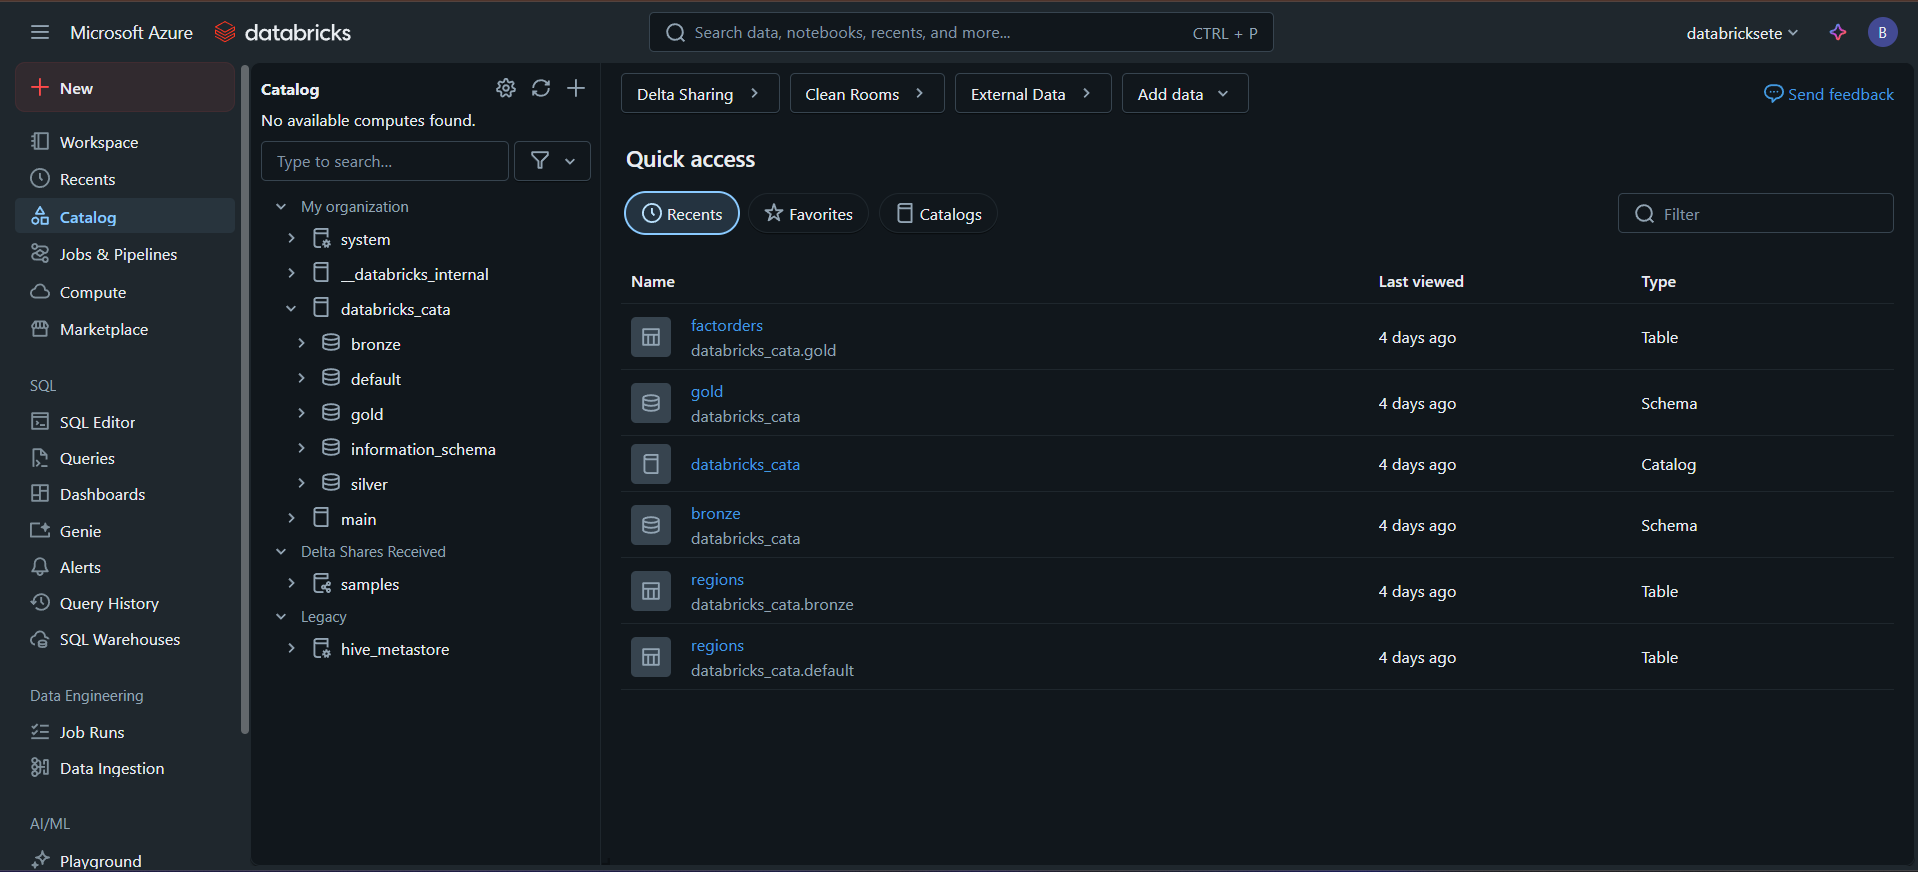
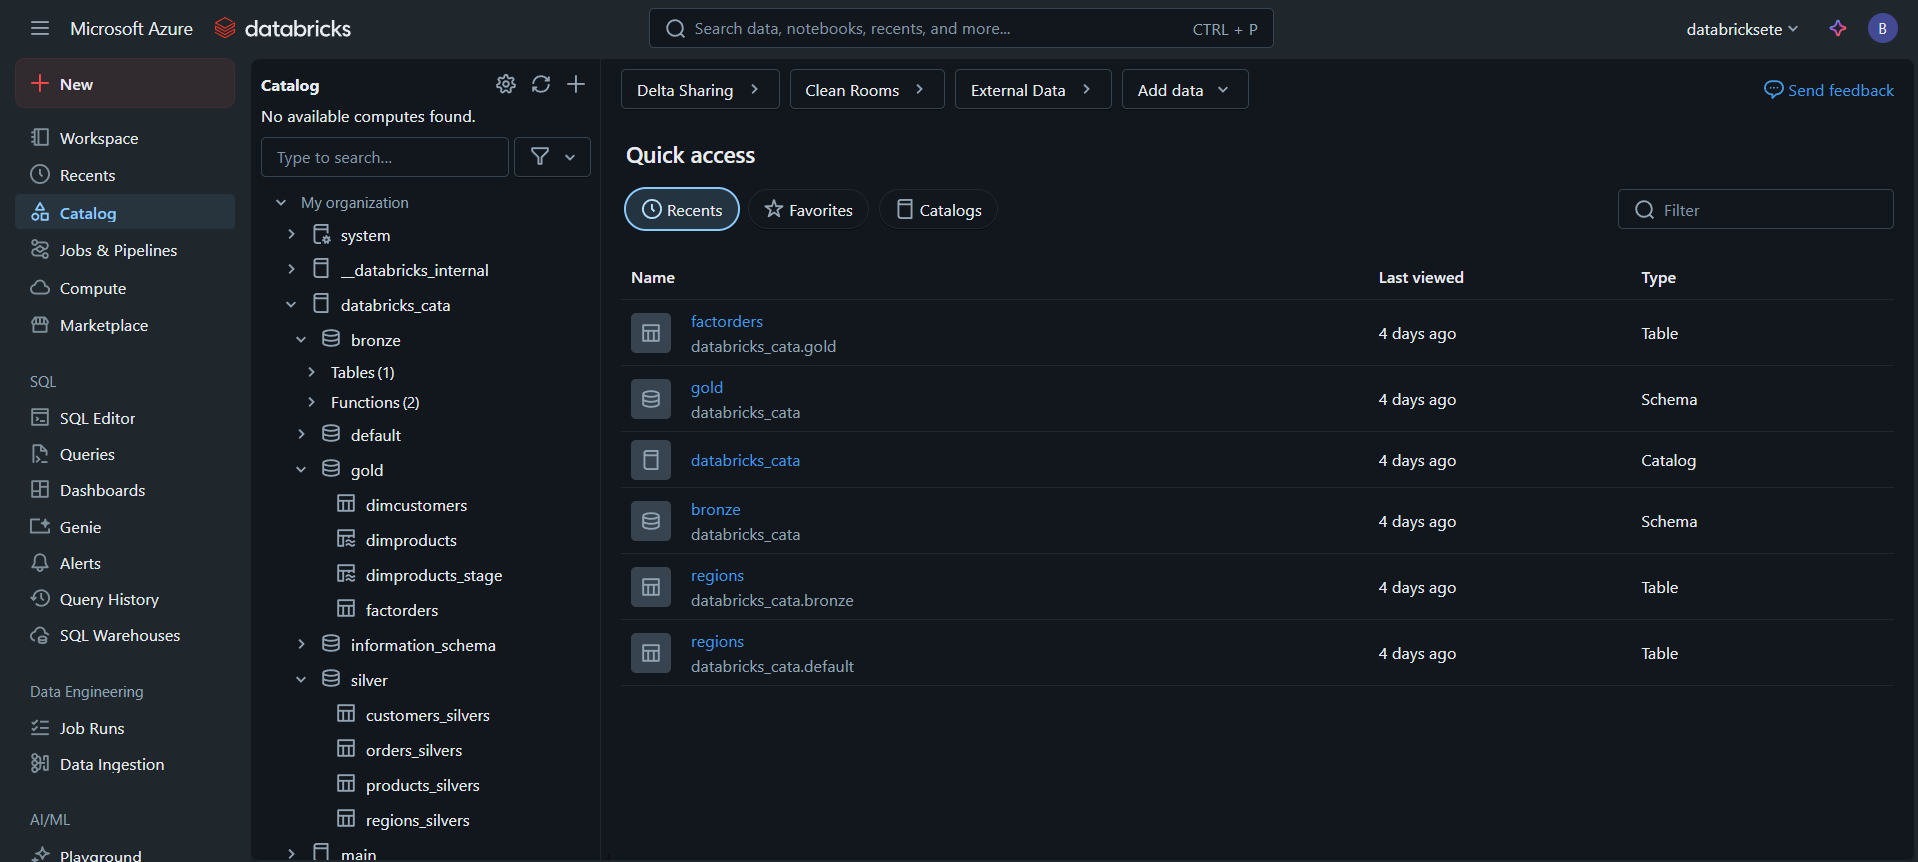
Inital Commit

diff --git a/README.md b/README.md
@@ -1,124 +1,90 @@
-# 🌐 AdventureWorks: End-to-End Azure Data Engineering Project
-
-This project demonstrates an enterprise-grade **Data Engineering Pipeline** using Microsoft's Azure ecosystem, built on top of the AdventureWorks dataset. The pipeline covers everything from data ingestion to transformation, warehousing, and final BI reporting.
-
-## 📊 Tools Used
-
-- **Azure Data Factory (ADF)** – Orchestration & automation
-- **Azure Data Lake Storage** – Bronze, Silver, and Gold zones for raw to curated data
-- **Azure Databricks** – Data transformation using notebooks
-- **Azure Synapse Analytics** – Data warehousing using serverless SQL pools
-- **Power BI** – Dashboarding and visualization
+Of course! Here is a `README.md` file created based on the images you provided, following a structure similar to the example.
 
 ---
 
-## 🔧 Architecture Overview
+# End-to-End Data Engineering Project on Azure
 
-![Architecture](images/architecture.png)
+This repository documents an end-to-end data engineering pipeline built on the Azure cloud platform. The project demonstrates a modern data warehousing solution using Azure Databricks and Azure Data Lake Storage Gen2 to process, transform, and serve data for analytics, following the Medallion architecture.
 
----
+## Table of Contents
+- [Architecture Overview](#architecture-overview)
+- [Azure Resources](#azure-resources)
+- [Data Pipeline Implementation](#data-pipeline-implementation)
+  - [1. Storage and Data Lake Setup](#1-storage-and-data-lake-setup)
+  - [2. Bronze Layer: Raw Data Ingestion](#2-bronze-layer-raw-data-ingestion)
+  - [3. Silver Layer: Data Cleansing and Transformation](#3-silver-layer-data-cleansing-and-transformation)
+  - [4. Gold Layer: Business-Ready Data](#4-gold-layer-business-ready-data)
+- [Pipeline Orchestration](#pipeline-orchestration)
+- [Data Governance with Unity Catalog](#data-governance-with-unity-catalog)
 
-## ⚙ Step 1: Azure Resources Provisioning
+## Architecture Overview
 
-Provisioned the following cloud resources and configured IAM for secure access:
+This project implements a multi-layered data architecture (Bronze, Silver, Gold) to progressively refine data from its raw state to a high-quality, analysis-ready format.
 
-- Azure Data Factory
-- Azure Storage Account with hierarchical namespace (Data Lake)
-- Azure Databricks workspace and cluster
-- Azure Synapse SQL Serverless
-- Power BI Service
+1.  **Data Ingestion**: Raw data lands in a source container in Azure Data Lake Storage (ADLS) Gen2.
+2.  **Bronze Layer**: Raw data is ingested into the Bronze layer as Delta tables without any transformation. This provides a historical archive of the source data.
+3.  **Silver Layer**: The data from the Bronze layer is cleaned, conformed, and enriched. Common data quality issues are resolved, and the data is structured for easier querying.
+4.  **Gold Layer**: Silver-layer data is aggregated and transformed into business-centric models, often as star schemas with fact and dimension tables, ready for BI and analytics.
+5.  **Orchestration**: The entire ETL/ELT process is orchestrated using Azure Databricks Jobs, ensuring a reliable and automated workflow.
 
-![Azure Resources](images/step1-resources.png)
+## Azure Resources
 
----
+The following Azure resources were provisioned within the `RG_Databricks_ETE` resource group to build the solution:
 
-## 🚀 Step 2: Data Ingestion via ADF
+*   **Azure Databricks Service (`databrickssete`)**: The core engine for data processing and transformation.
+*   **Azure Storage Account (`databricksabbharath`)**: Serves as the Azure Data Lake Storage Gen2 for storing all layers of data (Bronze, Silver, and Gold).
+*   **Access Connector for Azure Databricks (`databricks_ete_connector`)**: Enables secure access between Azure Databricks and the storage account.
 
-Using **HTTP connector**, ADF pipelines fetch AdventureWorks data from GitHub and drop into the `bronze` container.
 
-- Dynamic parameters and datasets
-- Logging and error handling enabled
 
-![ADF Ingestion](images/step2-adf-pipeline.png)
+## Data Pipeline Implementation
 
----
+### 1. Storage and Data Lake Setup
 
-## 🔄 Step 3: Transformation Using Databricks
+An Azure Storage Account was configured with a hierarchical namespace to function as a Data Lake. Containers were created to logically separate the data according to the Medallion architecture:
 
-Azure Databricks processes data from bronze to silver with transformations:
+*   **`source`**: Landing zone for raw source files.
+*   **`bronze`**: Stores raw data ingested from the source as Delta tables.
+*   **`silver`**: Stores cleaned and transformed data.
+*   **`gold`**: Stores curated, business-level aggregated data for analytics.
+*   **`metastore`**: Used by Databricks for managing the Hive Metastore or Unity Catalog metadata.
 
-- Cleaned missing values
-- Date normalization
-- Grouping, joins, and aggregations
-- Output saved in **Parquet** format
 
-![Databricks Notebook](images/step3-databricks1.png)
-![Databricks Output](images/step3-databricks2.png)
 
----
+### 2. Bronze Layer: Raw Data Ingestion
 
-## 🧠 Step 4: Data Modeling in Synapse Analytics
+Data from the `source` container is ingested into the `bronze` layer. This layer holds the raw, untouched data as well as checkpoints for streaming ingestion.
 
-- Connected Synapse to **Silver** data
-- Created external tables and views
-- Designed schema for analytical consumption
 
-![Synapse Tables](images/step4-synapse-tables.png)
-![Synapse Queries](images/step4-synapse-query.png)
 
----
+### 3. Silver Layer: Data Cleansing and Transformation
 
-## 📊 Step 5: BI Integration with Power BI
+In this stage, pipelines run transformations on the Bronze data. This includes data type casting, handling null values, and applying basic business rules. The cleaned data is then stored in the `silver` container.
 
-Power BI connected to Synapse SQL and visualized key metrics:
 
-- Sales performance by region & product
-- Year-over-year growth
-- Category and subcategory analysis
 
-![Power BI Report 1](images/step5-powerbi1.png)
-![Power BI Report 2](images/step5-powerbi2.png)
-![Power BI Report 3](images/step5-powerbi3.png)
+### 4. Gold Layer: Business-Ready Data
 
----
+The final layer aggregates the Silver data into consumption-ready tables, such as dimension (`DimCustomers`) and fact (`FactOrders`) tables. These tables are optimized for BI dashboards and analytical queries.
 
-## ✅ Outcome & Learnings
 
-| Key Benefit       | Description                                        |
-|-------------------|----------------------------------------------------|
-| 🚀 Automation     | Full ETL flow without manual steps                 |
-| 🧱 Modular Design | Bronze → Silver → Gold architecture                |
-| 🔍 BI Ready       | Power BI dashboards refresh automatically          |
-| 💡 Scalable       | All services scale on-demand for future growth     |
 
----
+## Pipeline Orchestration
 
-## 📁 Folder Structure
+The entire data flow is managed by a master `Parent_Pipeline` in Azure Databricks Jobs. This job orchestrates the execution of individual tasks in the correct order of dependency, from data ingestion to the final creation of the gold fact table.
 
-```bash
-azure-adventureworks-pipeline/
-├── adf/
-│   └── pipeline.json
-├── databricks/
-│   └── notebooks.ipynb
-├── synapse/
-│   └── external_tables.sql
-├── powerbi/
-│   └── dashboards.pbix
-├── images/
-│   └── (11 images referenced above)
-└── README.md
-```
+The Directed Acyclic Graph (DAG) shows the workflow:
+*   The `Bronze_Autoloader_Iteration` task ingests new raw data.
+*   Silver-layer jobs (`Silver_Customers`, `Silver_Orders`, `Silver_Products`) run in parallel to process the corresponding bronze tables.
+*   Gold-layer jobs (`Gold_Customers`, `Gold_Products`) create the dimension tables.
+*   Finally, the `Fact_Table` job runs to create the aggregated fact table from the gold dimensions.
 
----
 
-## 🙌 Acknowledgment
 
-This project is inspired by the Azure Data Engineering approach presented by **Sivaprasad V**. 
+A specific task like `GOLD_Products` is implemented as a Delta Live Tables (DLT) pipeline, which simplifies ETL development with declarative execution and deep visibility into pipeline operations.
 
----
 
-## ✉ Contact
 
-- 📧 your.email@example.com
-- 🔗 [LinkedIn](https://linkedin.com/in/your-profile)
+## Data Governance with Unity Catalog
+
+Unity Catalog is used to provide a unified governance solution for all data and AI assets. It allows us to manage schemas and tables across all three layers (Bronze, Silver, Gold) from a central interface, ensuring fine-grained access control and providing a clear data lineage.
